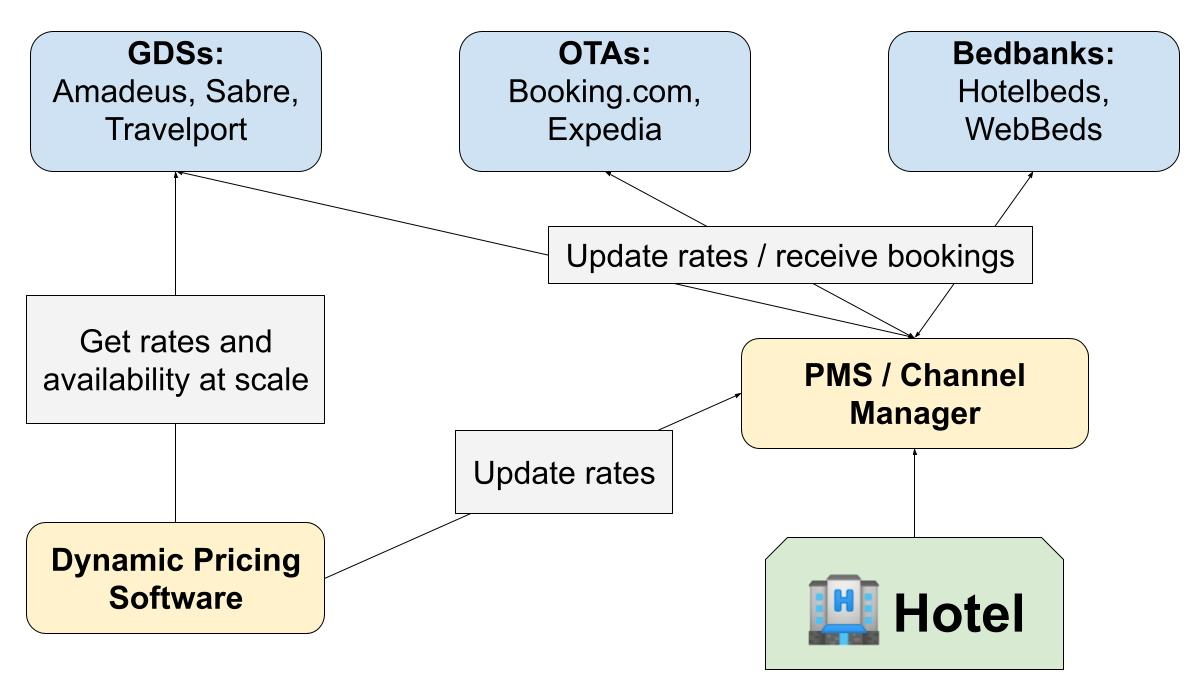
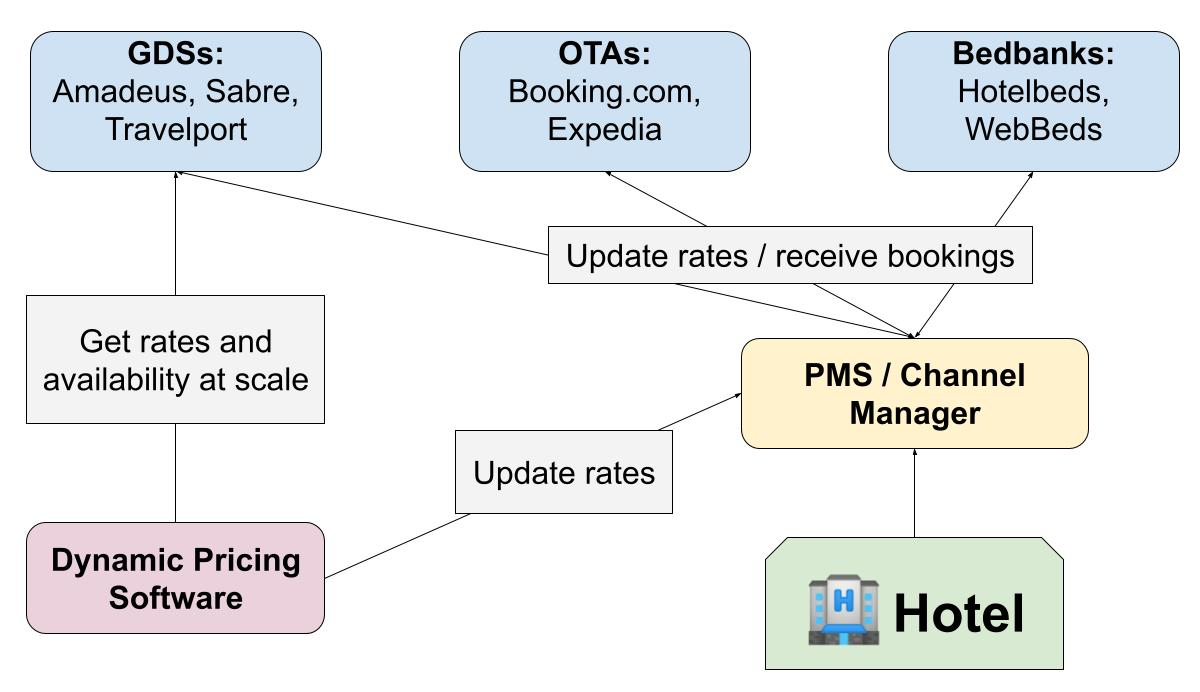
updated images + updated sections for dynamic pricing

Changed region(s): [[0.0, 0.7587, 0.2775, 0.9408]]

diff --git a/content/posts/dynamic-pricing.md b/content/posts/dynamic-pricing.md
@@ -1,30 +1,56 @@
 ---
-title: "Dynamic hotel pricing: initial plan"
+title: "Dynamic hotel pricing: planning the MVP"
 date: 2023-05-02T00:45:28+02:00
 draft: true
 limmat_temperature: 11.9
 images: ["images/dynamic_hotel_pricing.png"]
 tags: ["Tech"]
 ---
-I've now done some research into the [dynamic hotel pricing idea I mentioned at the end of the last post](/posts/inspiration-from-startup-school#idea-dynamic-hotel-pricing) and the idea is now slowly materializing into something concrete. I now understand the space better and what it would involve to implement such an idea. This post will give a summary of a first concrete plan with somewhat minimal work. 
+I've done some research into the [dynamic hotel pricing idea](/posts/inspiration-from-startup-school#idea-dynamic-hotel-pricing) I mentioned at the end of the last post and the idea is now slowly materializing into something concrete. I now understand the space better and what it would involve to implement such an idea. This post will give a summary of a concrete plan: how the minimum viable product (MVP) could look like and how to identify potential first customers. Hopefully with somewhat minimal work. 
 
 ## What is dynamic pricing?
-The basic idea is that you want to maximize revenue based on demand. If demand is high then prices rise and conversely, if demand is low, prices drop to attract more customers. Concretely for a hotel this means adjusting prices based on competitors rates (charge more than competitors and your attractivity drops), seasonality (e.g. for a business property there's more reservations during weekdays while for a vacation property it tends to concentrate on weekends), holidays, local events, occupancy rates (both from your own property and from your competitors) and even weather.
+The basic idea behind dynamic pricing is to maximize revenue based on demand. If demand is high then prices rise and conversely, if demand is low, prices drop to attract more customers. Concretely for a hotel this means adjusting prices based on a multitude of factors: 
+* Competitors rates (charge more than competitors and your attractivity drops)
+* Seasonality including Holidays (e.g. for a business property there's more reservations during weekdays while for a vacation property it tends to concentrate on weekends, holidays; there may be a summer/winter high/low season)
+* Local events (festivals, work conferences attract more guests than usual)
+* Occupancy rates (both from your own property and from your competitors) and even weather.
 
-## A crash course on the hotel distribution industry 
-So if I build something that predicts hotel prices based on demand, how would this actually be integrated into the hotels? This requires understanding how property owners manage their availability and how prices are distributed. I learned a lot about how hotel room distribution and management works from this excellent post from [altexsoft on Hotel Booking APIs](https://www.altexsoft.com/blog/hotel-api/). In summary, these are the main players:
-* Online Travel Agencies (OTAs): They are the dominant force in this space and where the bulk of reservations is made and you have probably heard of the two largest in this space: Booking Holdings (Booking.com, Kayak, Agoda, Priceline, etc.) and Expedia.
-* Global distribution systems (GDSs): They originate in the airline industry where they are the dominant player and have access to the majority of fares. GDSs aggregate data from multiple sources and distribute them across OTAs and travel agents. The largest players are Amadeus, Sabre and Travelport.
+## Planning the MVP
+These are the following steps that need to be solved to have a basic dynamic pricing solution:
+1.  Integrate it into the hotel's system, i.e., how it would set the room rates for the hotels.
+2.  Get the necessary data for predicting prices. As mentioned above we need competitor rates, local events, current occupancy rate and understand seasonality effects for each hotel.
+3.  Train a model to predict the ideal price that hotels can charge for their rooms.
+
+## Step 1: Integrating the software into the hotel world
+So how would a software that predicts hotel room rates be used by hotels? Before we start we need to understand how the hotel distribution industry works.
+
+### A crash course on the hotel distribution industry 
+I learned a lot about how property owners manage their availability, rates and hotel room distribution from this excellent post by [altexsoft on Hotel Booking APIs](https://www.altexsoft.com/blog/hotel-api/). In summary, these are the main players:
+* Online Travel Agencies (OTAs): They are the dominant force in this space and where the bulk of reservations are made. You have probably heard of the two largest in this space: Booking Holdings (Booking.com, Kayak, Agoda, etc.) and Expedia.
+* Global distribution systems (GDSs): They originate in the airline industry where they are the dominant player and have access to the majority of fares. GDSs aggregate data from multiple sources and distribute them across OTAs and travel agents. The largest players are Amadeus, Sabre and Travelport. Their hotel coverage is not as a high as OTAs.
 * Channel managers: This is a tool that helps hotel to distribute their inventory across multiple channels (Booking, Expedia, AirBnB, GDSs, etc.). A channel manager ensures no overbooking can happen and that your rates are consistent across all the different platforms. This happens in both directions. Once a reservation is made at any of those platforms, the channel manager is notified and then notifies all other platforms.
 
 Hotels may work with an OTA or a channel manager directly, but more often than not they use a property management system (PMS) instead. A PMS is a software that handles front- and back-office operations, reservations, occupancy management, housekeeping and other administrative tasks for a hotel. It usually also integrates with a channel manager so that the hotels inventory and its rates are distributed properly.
 
-{{< figure src="/images/dynamic_hotel_pricing.jpg" width="80%" caption="Hotels use a PMS or a Channel Manager to have their rates distributed to multiple GDSs, OTAs and bedbanks (the relationship is bi-directional: when a booking is made the PDS or Channel Manager is also updated). The dynamic pricing software gets its data from a GDS and talks directly with the PDS of the hotel to update rates." >}}
+{{< figure src="/images/hotel_distribution_industry.jpg" width="80%" caption="Hotels use a PMS or a Channel Manager to have their rates distributed to multiple GDSs, OTAs and bedbanks (the relationship is bi-directional: when a booking is made the PDS or Channel Manager is also updated)." >}}
 
-### How this thing would work
-In the case of a dynamic pricing solution, the integration needs to be done either with a channel manager or a PMS.
+### Integrating a dynamic pricing solution
+So how does a dynamic pricing solution fit in the big picture? Since hotels typically use a PMS or Channel Manager to distribute their rates, this piece of software needs to be able to communicate directly with them. 
+
+{{< figure src="/images/dynamic_hotel_pricing.jpg" width="80%" caption="The dynamic pricing software gets its data from a GDS and talks directly with the PDS of the hotel to update rates." >}}
+
+## Step 2: Getting the data
+I mentioned how a hotel room's rate should depend on 4 factors: competitor rates, seasonality, local events and current occupancy rates. To simplify things for the MVP I'm reducing this just to competitor rates. They should be a good proxy anyways for the other 3 factors. 
+
+The best place to get the data would be an OTA like Booking.com or Expedia. The vast majority of hotels are on them and both offer APIs to programatically access rates and availability at scale. However, Booking is currently not accepting new partners and Expedia requires partners to be able to generate $1.5M in bookings for them. Indeed OTAs typically offer their APIs for free so they expect revenue to be generated for them in exchange.
+
+The only option I've found without much bureaucracy is using a GDS. Their coverage tends to mostly focus on corporate travelers, so they may have many hotels where tourists stay in. Amadeus offers a ["self-service API"](https://developers.amadeus.com/self-service) where you pay per API call. Their [hotel API](https://developers.amadeus.com/self-service/category/hotels) allows you to query hotels in a city/location and get their rates. It's still an open question for me to understand how large their coverage is in Brazil. 
+
+## Step 3: Training the model
+This is definitely the step where things are most unclear to me. I would need historical data containing occupancy rates, the price charged per booking and the data of the booking. This data is actually not easy to get directly.
 
 ## Initial plan
+I'd like to focus on the advice given on the previous post and before I start spending too much time on building the MVP, I want to get user feedback. My plan is to get a list of potential first customers by leveraging data from step 2. It will allow me to understand which hotels currently don't have dynamic pricing and I plan on reaching out to them to gauge their interest in a potential software for this. I also want to understand if they believe this is a problem at all, how they are currently tacking it and also what PMS / Channel Manager they use to distribute their rates.
 
 
 start with amadeus because less bureaucractic. GDS however doesn't have small properties (e.g. airbnb, vacation rentals, urban homes). "While GDSs generally have large hotel inventories, they may miss some segments that are of little interest to corporate travelers."
